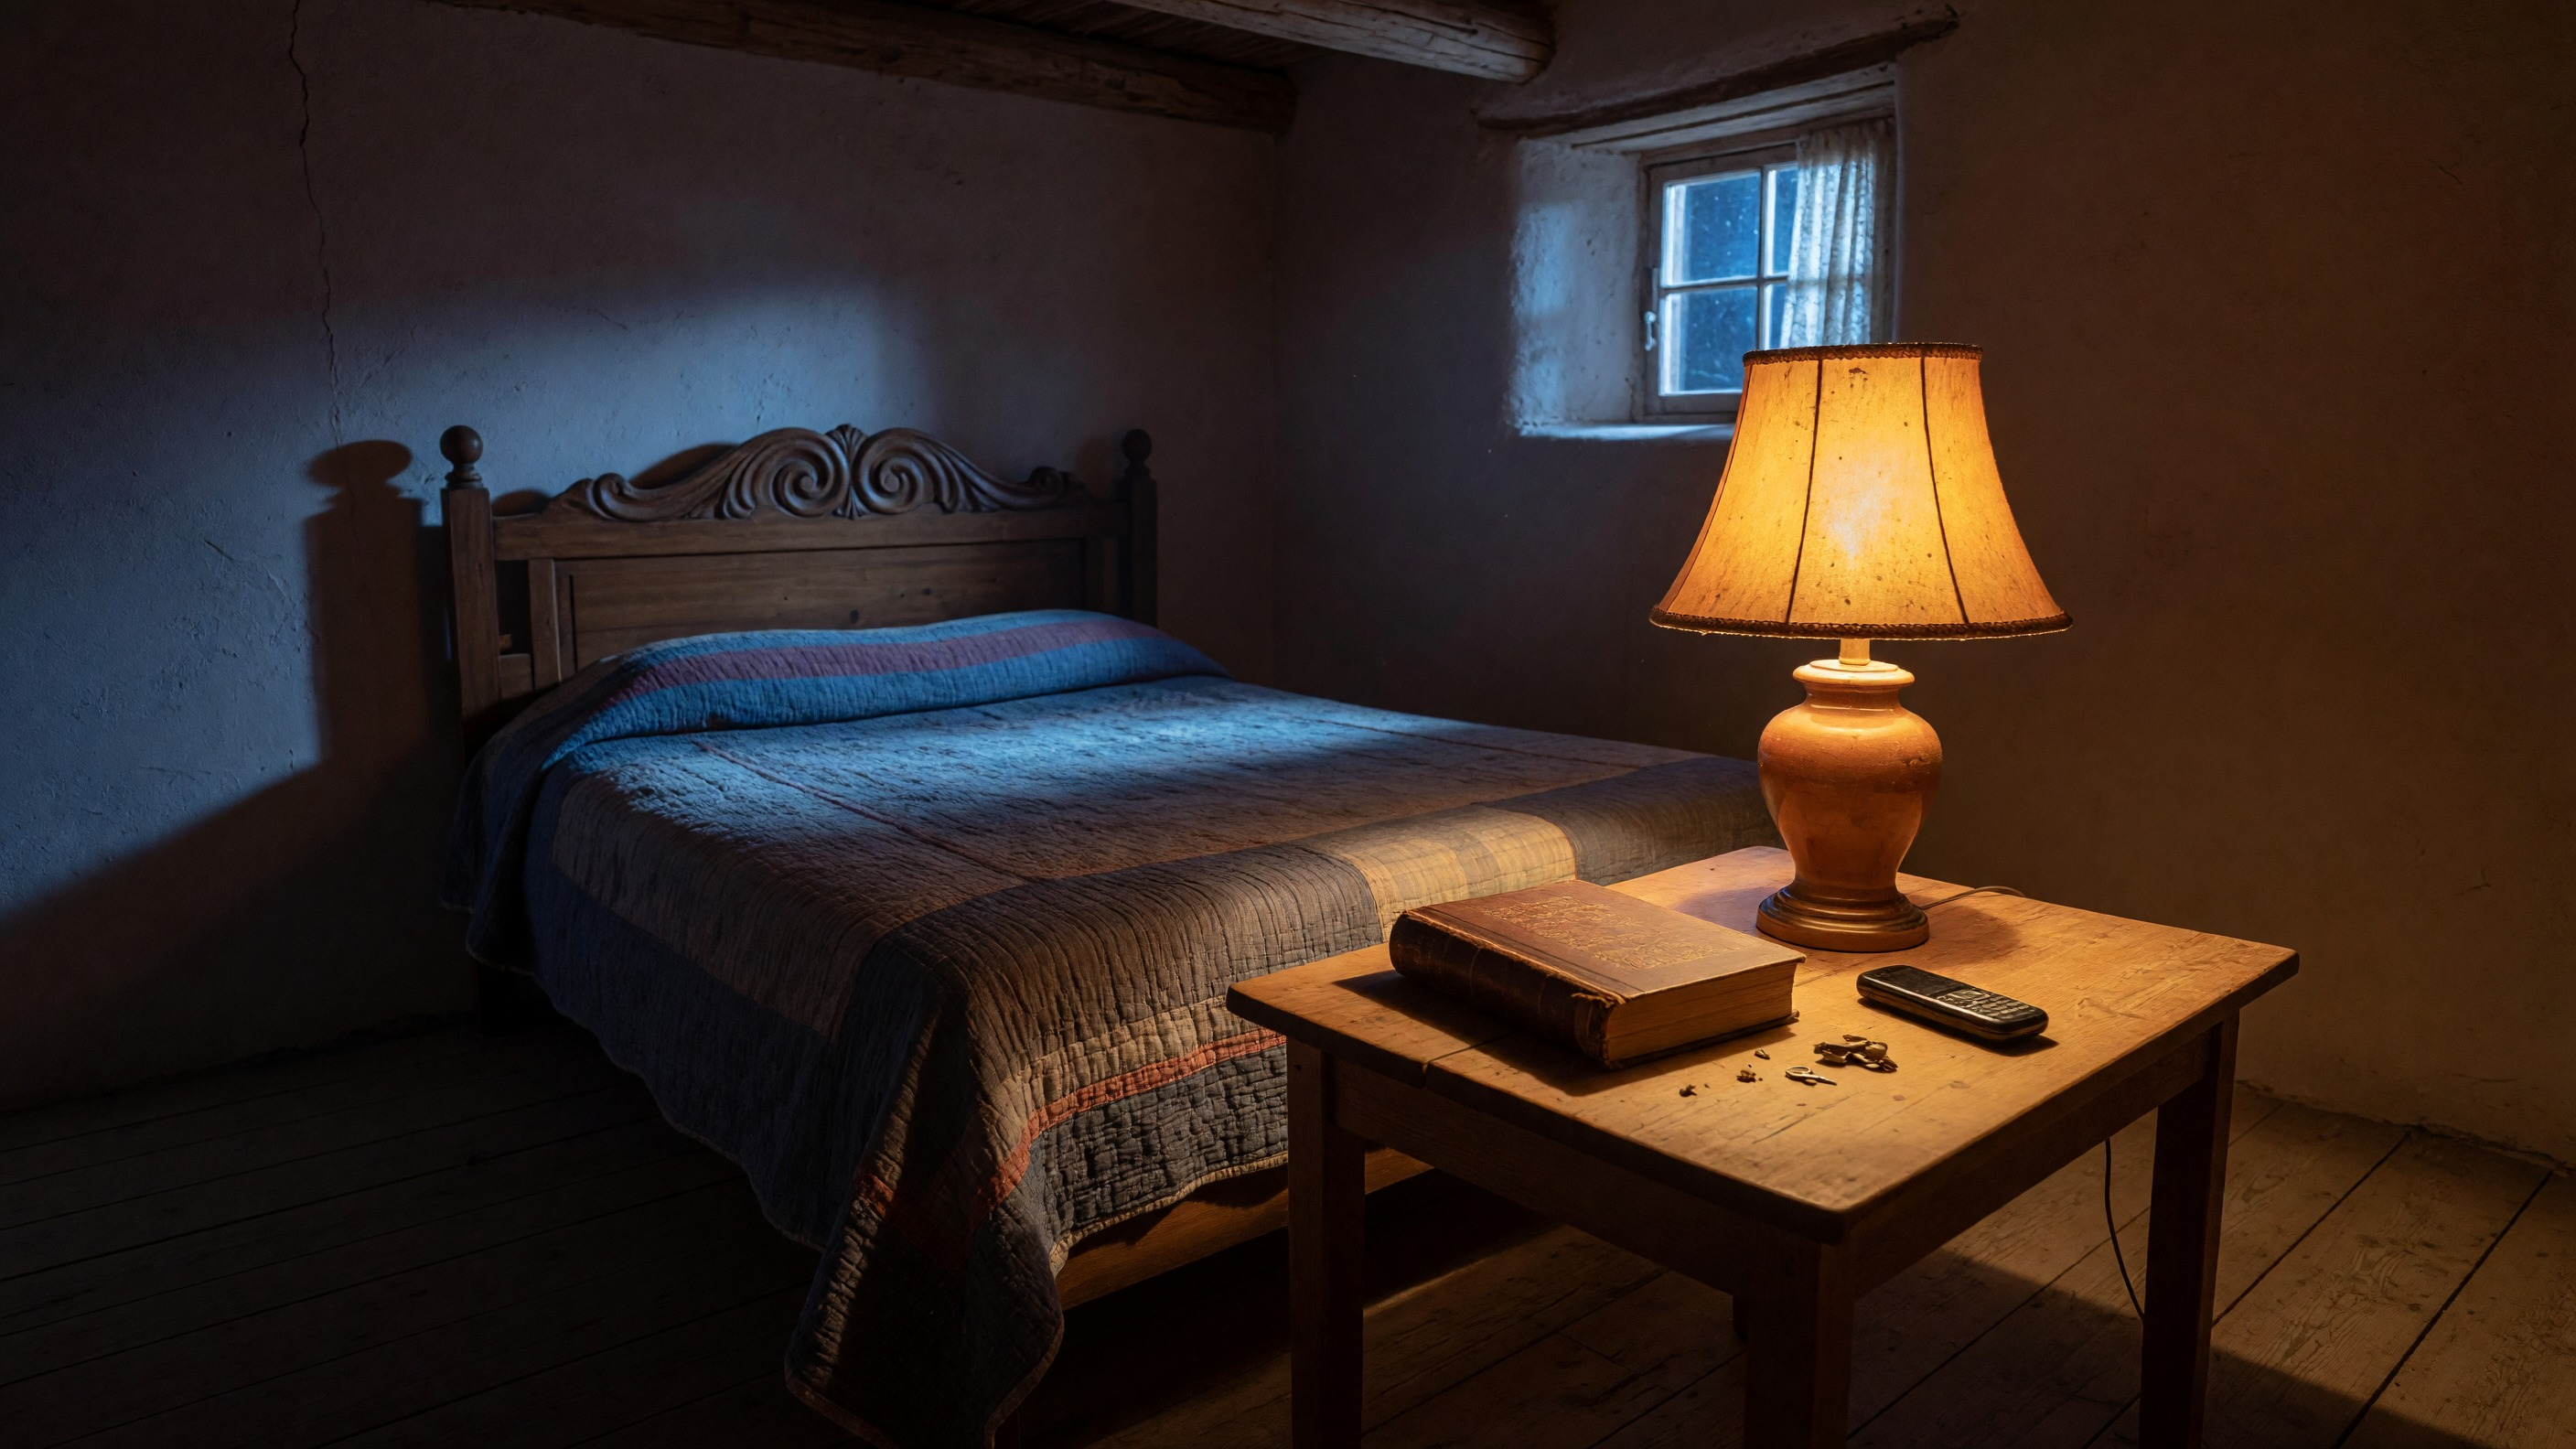
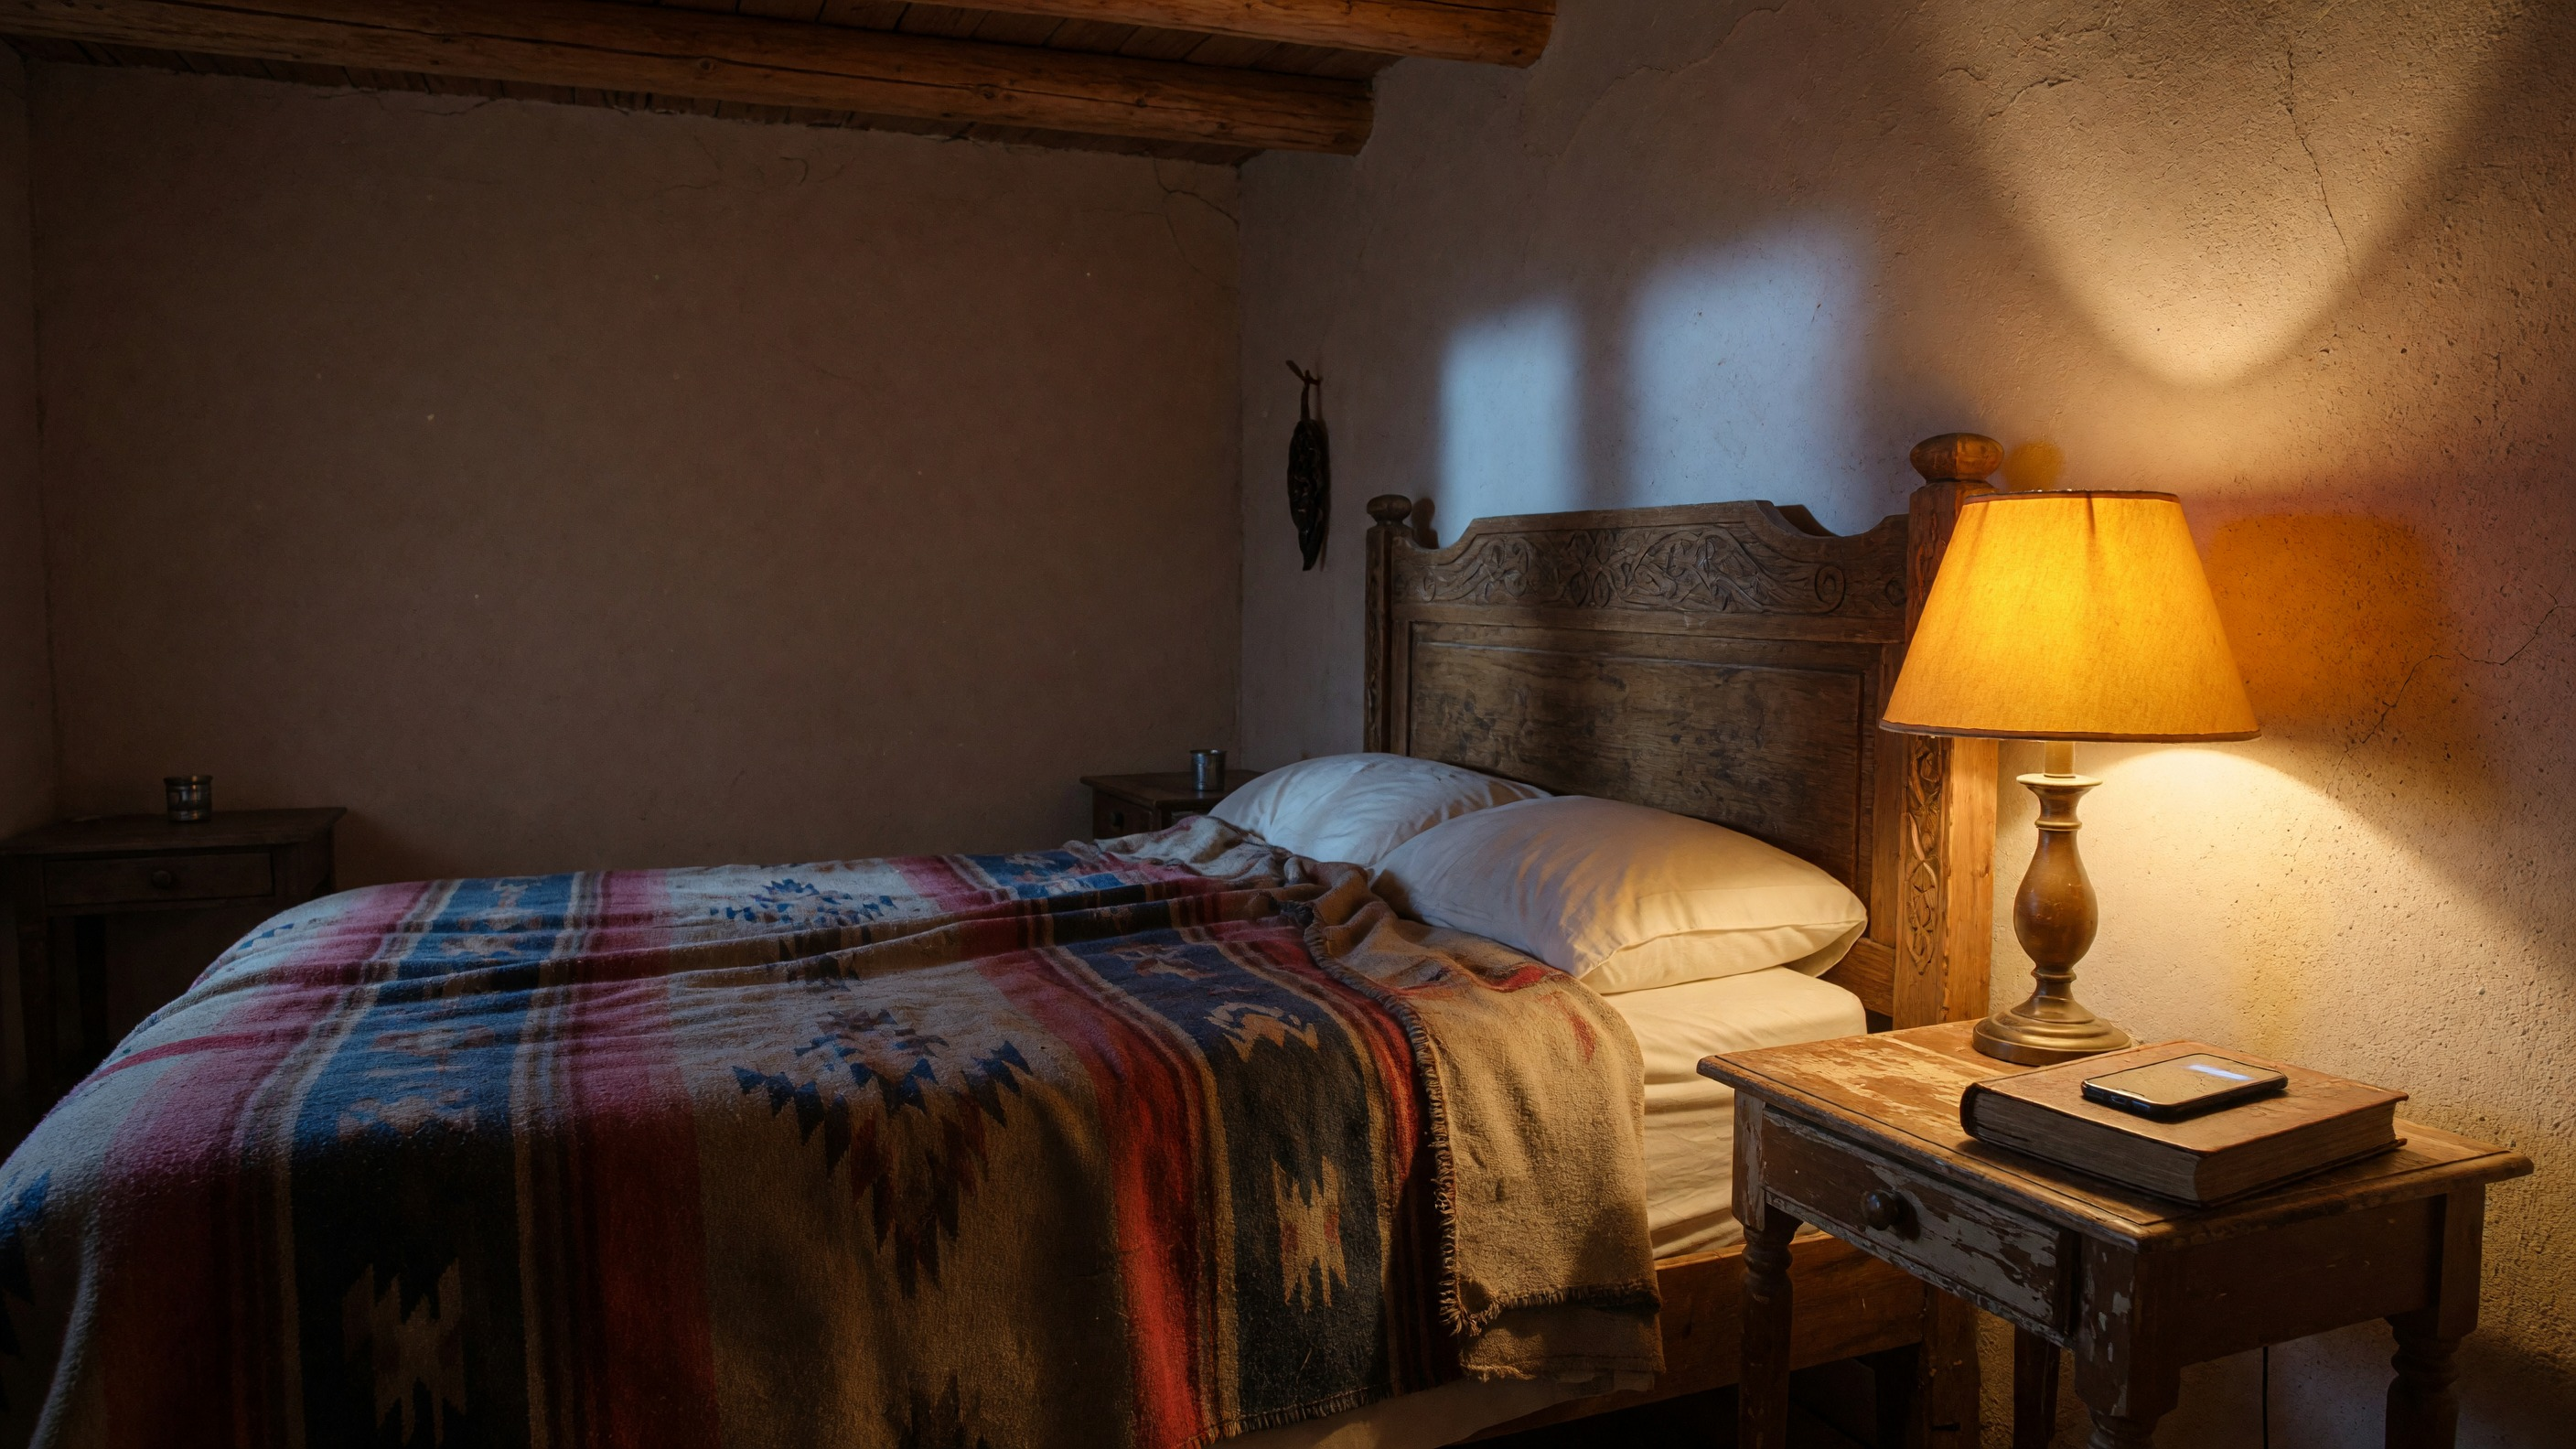
Fix Shot 39 bedroom layout concept

diff --git a/index.html b/index.html
@@ -2108,7 +2108,7 @@
 
 <div class="shot"><span class="shot-num">39</span><div class="shot-content">
 <p class="scene-heading">INT. BEDROOM — NIGHTSTAND / COOKBOOK</p>
-<p class="note"><span class="lbl">CAM</span><span class="note-text">Begin locked on a bedside still life that completes the Shot 38 dissolve: the warm table lamp occupies the same screen position as the oven glow, with the vintage cookbook resting directly under it and the phone face-down nearby. After the dissolve settles, Chris's hand enters from bed and lifts the book. Track with the book as it leaves the lamp pool, then reframe wider to reveal Chris in pajamas, reclined in bed, legs under the covers, settling in like the reference wide-angle reading shots.</span></p>
+<p class="note"><span class="lbl">CAM</span><span class="note-text">Begin locked on the right-side nightstand beside the bed, not a loose table in the room. The warm table lamp occupies the same screen position as the oven glow, with the vintage cookbook resting directly under it and the phone face-down nearby. After the dissolve settles, Chris's hand enters from bed and lifts the book. Track with the book as it leaves the lamp pool, then reframe wider to reveal Chris in pajamas, reclined in bed against the wall, legs under the covers, settling in like the reference wide-angle reading shots.</span></p>
 <p class="note"><span class="lbl">PROP</span><span class="note-text">Vintage cookbook with custom insert pages. It should feel like an old practical household manual that has somehow acquired the missing reverse-smoking chapter.</span></p>
 <p class="note note-light"><span class="lbl">LIGHT</span><span class="note-text">Soft amber bedside lamp as key. Match the practical's color and bloom to the oven glow from Shot 38, then let the room fall into cozy low contrast after the high-energy schlieren sequence.</span></p>
 <p class="note"><span class="lbl">EDIT</span><span class="note-text">Cross dissolve from the warm oven glow into the warm bedside lamp. Let the lamp/book still life read for a beat before the hand enters. The book pickup motivates the scene change instead of dropping us into an already-started reading pose. Keep the Coen-style stillness: composed frame, one clean hand action, then the page takes over.</span></p>
@@ -2126,7 +2126,7 @@
     </a>
   </details>
 </div></div>
-<p class="action">The warm oven glow becomes the warm bedside lamp. The cookbook waits directly under the lamp beside the phone. Chris's hand reaches in, lifts the book, and the camera follows it back to him in bed.</p>
+<p class="action">The warm oven glow becomes the warm bedside lamp on the nightstand. The cookbook waits directly under the lamp beside the phone. Chris's hand reaches in from bed, lifts the book, and the camera follows it back to him against the wall.</p>
 <p class="action">He settles under the covers with the cookbook in his lap and finds the marked chapter.</p>
 <p class="character">CHRIS (V.O.)</p>
 <p class="dialogue">Once you know that number, the question stops being, "what is warm?"</p>